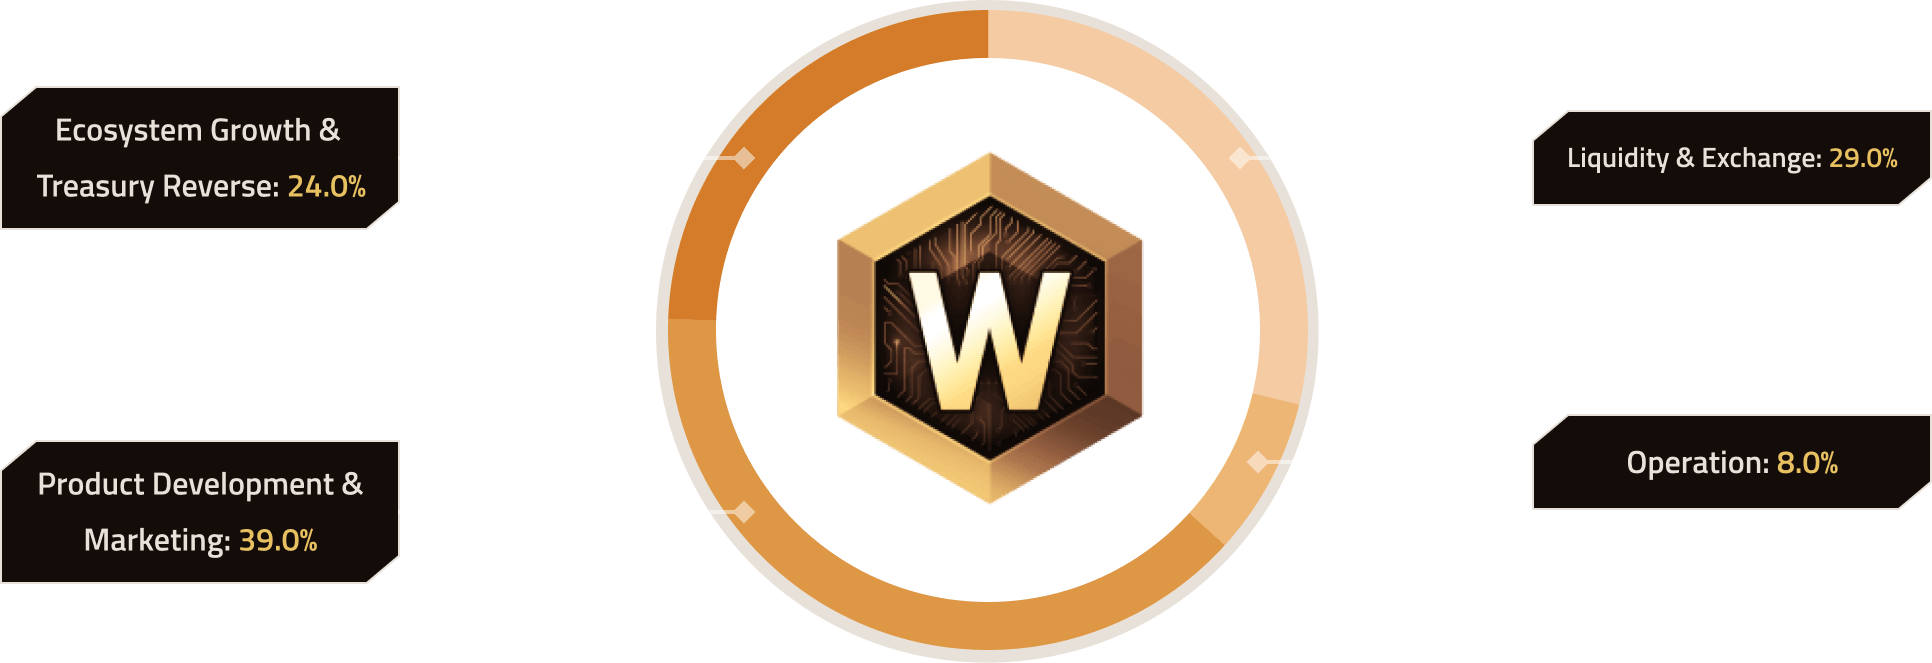
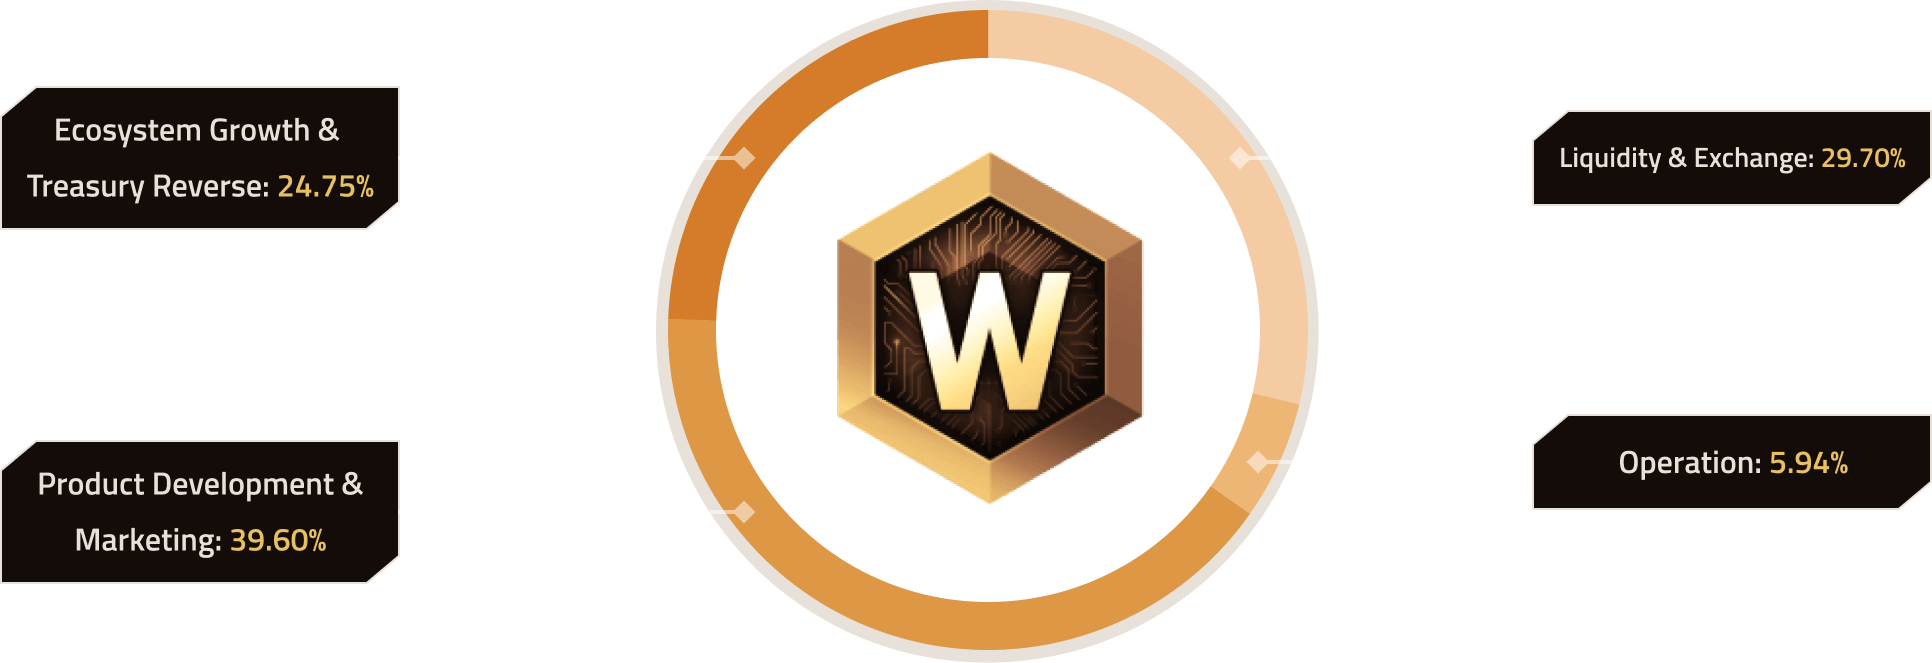
[Update] Nightmare: Update roadmap

diff --git a/src/pages/Roadmap/Roadmap.js b/src/pages/Roadmap/Roadmap.js
@@ -285,16 +285,16 @@ export const Roadmap = () => {
 					/>
 					<div className='percent__container percent__proceed'>
 						<div className='text-percent'>
-							Ecosystem Growth & Treasury Reverse: <b>24.0%</b>
+							Ecosystem Growth & Treasury Reverse: <b>24.75%</b>
 						</div>
 						<div className='text-percent'>
-							Liquidity & Exchange: <b>29.0%</b>
+							Liquidity & Exchange: <b>29.70%</b>
 						</div>
 						<div className='text-percent'>
-							Product Development & Marketing: <b>39.0%</b>
+							Product Development & Marketing: <b>39.60%</b>
 						</div>
 						<div className='text-percent'>
-							Operation: <b>8.0%</b>
+							Operation: <b>5.94%</b>
 						</div>
 					</div>
 					<table className='my-16'>
